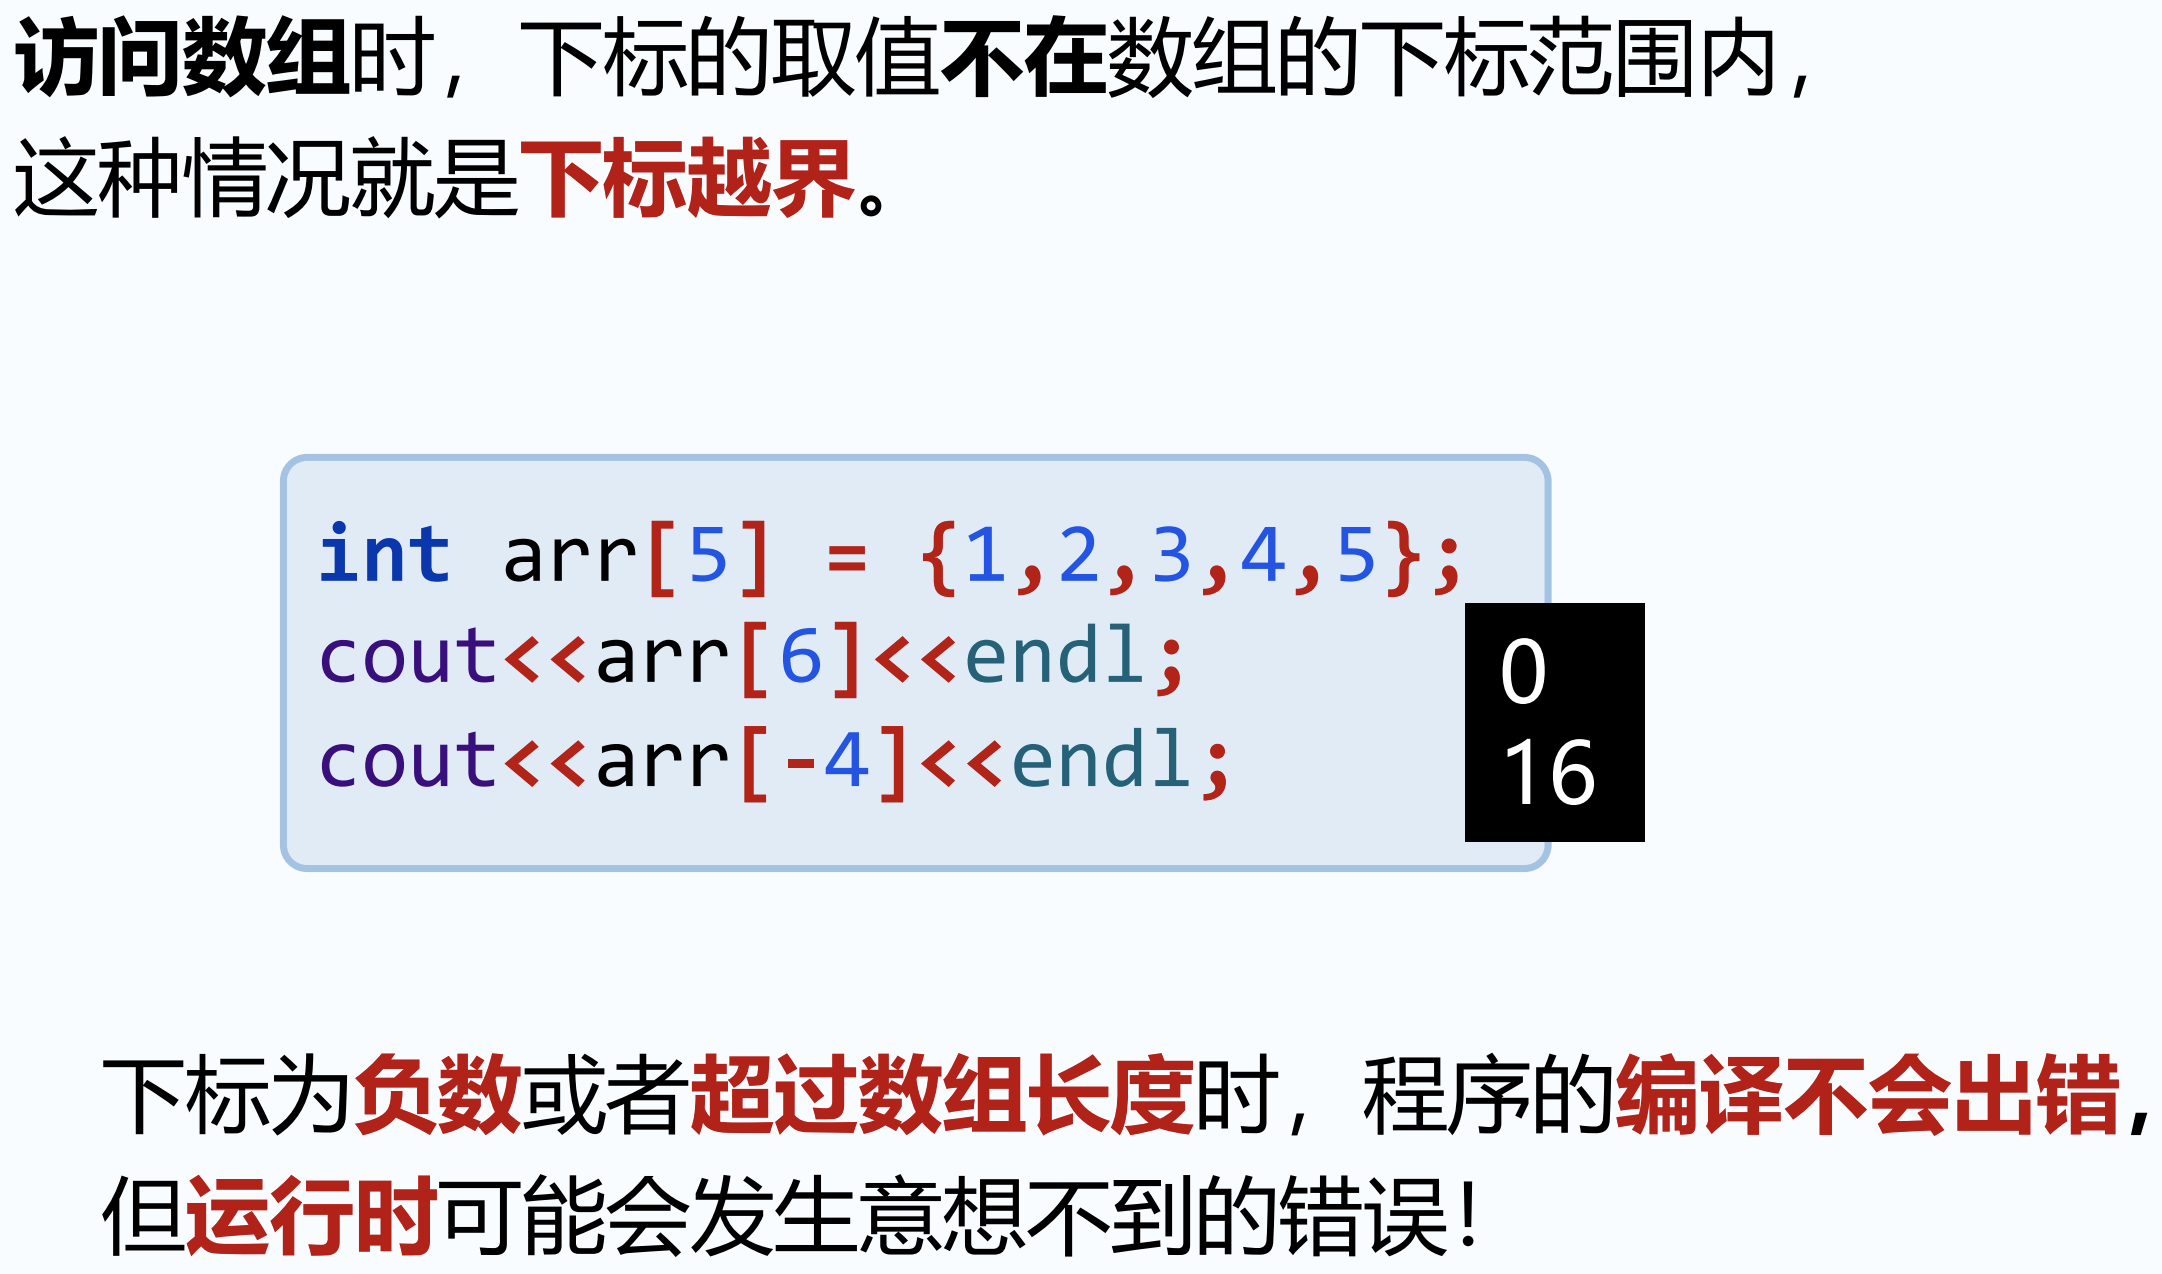
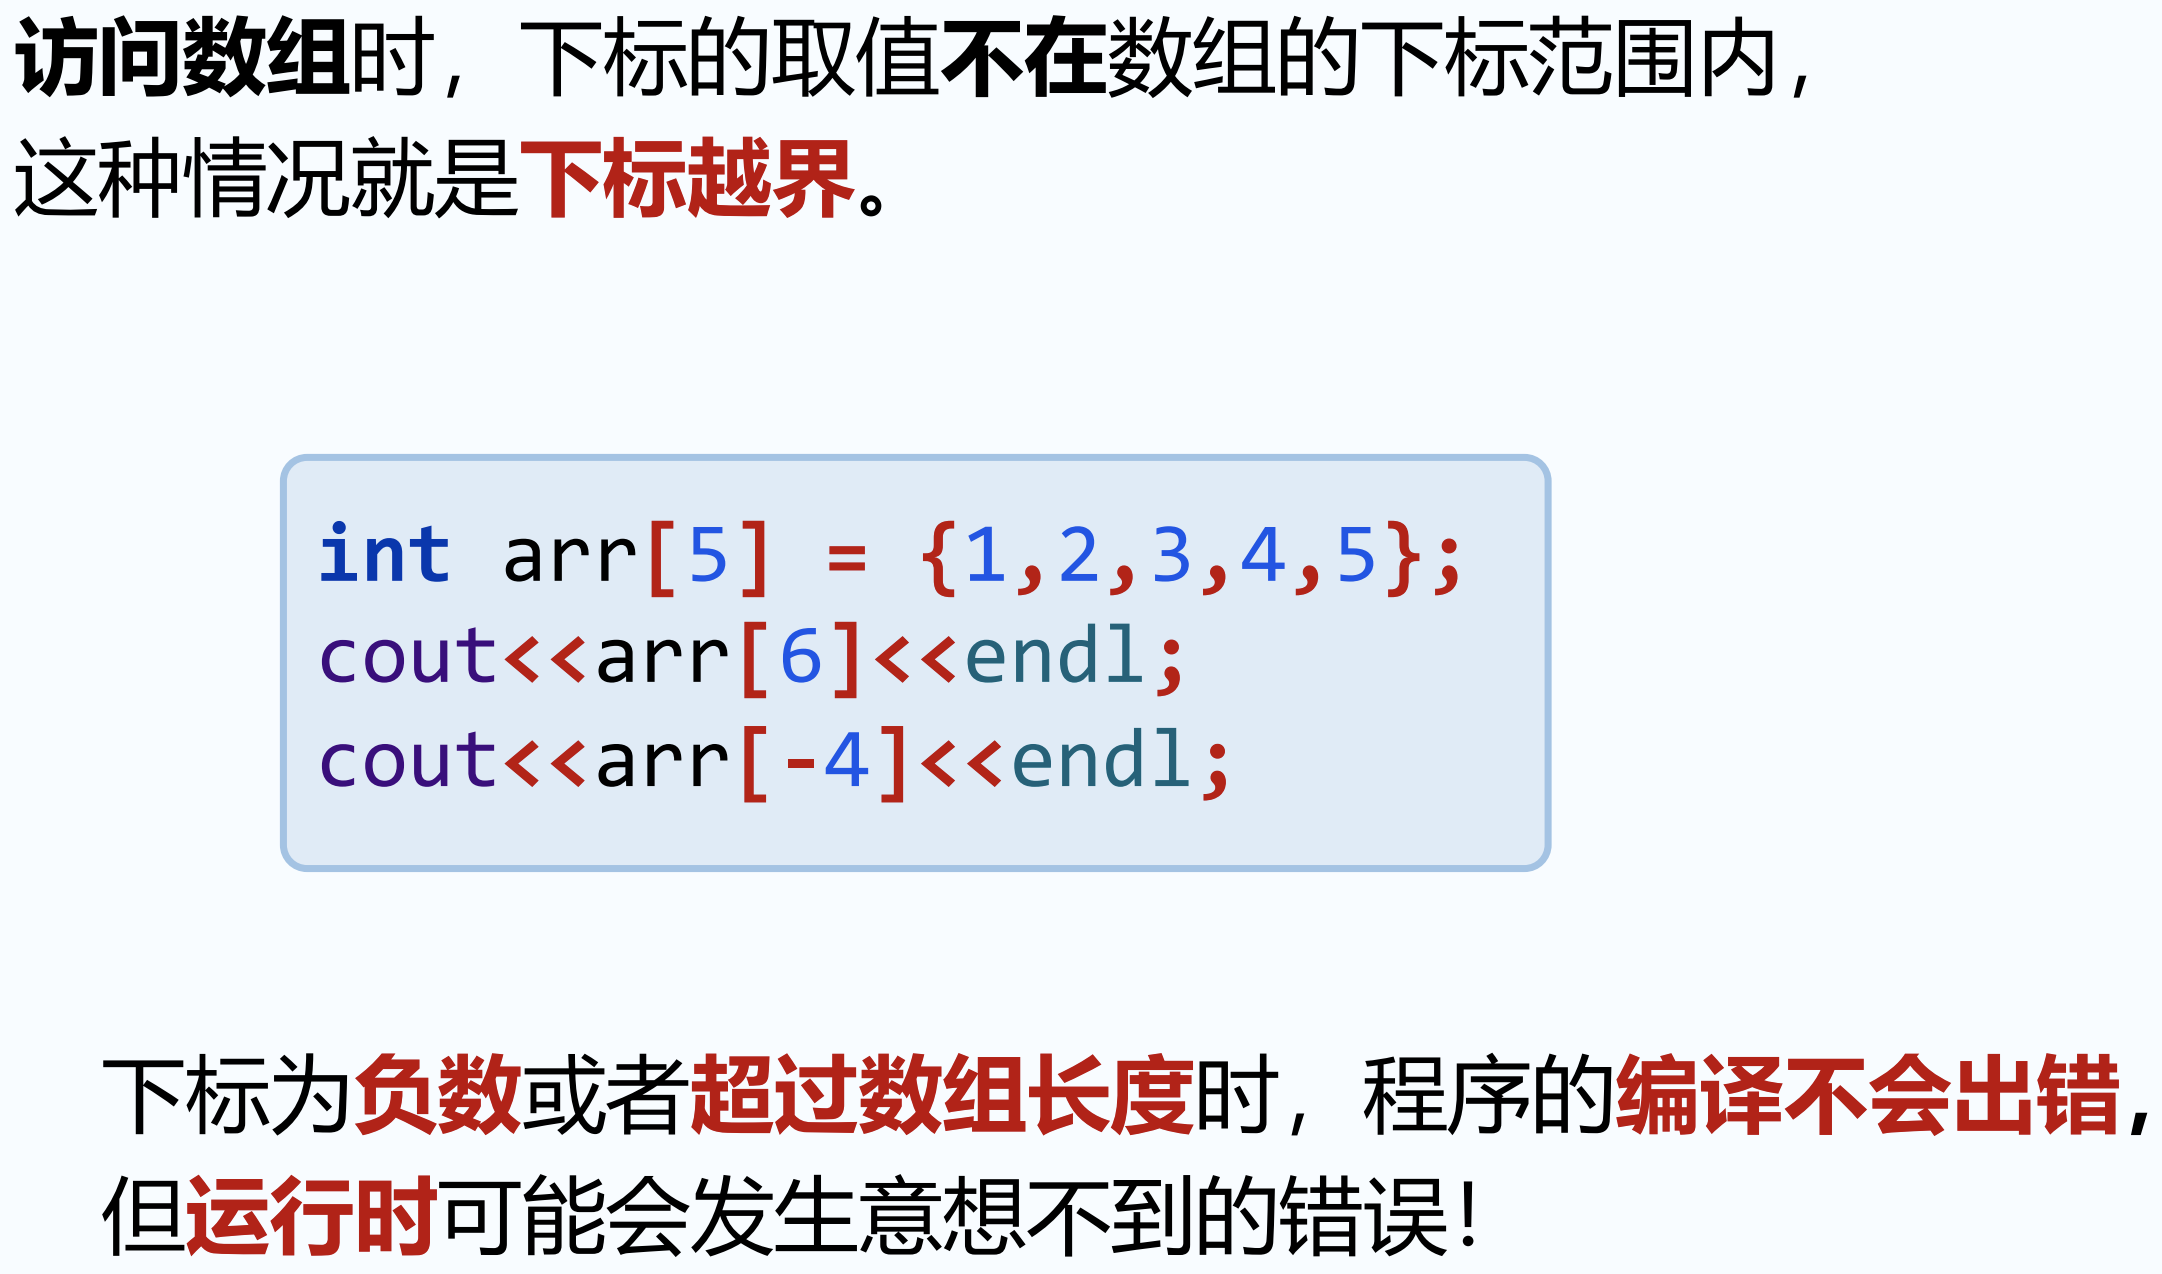
docs(lesson3): 补充C++字符串课程的教学幻灯片与习题解析
本次提交新增了lesson3课程的全部教学演示图片，更新了index.html中的课程页面结构，补充了多个习题的详细解析内容，同时调整了习题配置的计分规则，完善了字符串相关知识点的教学内容。

Changed region(s): [[0.6508, 0.4592, 0.7747, 0.6735]]

diff --git a/data/level3/lesson3/index.html b/data/level3/lesson3/index.html
@@ -1,4 +1,25 @@
 <div class="slide">
+    <h2 class="slide-subtitle-center">字符串</h2>
+    <div class="slide-image-container">
+        <img src="data/level3/lesson3/1-字符串.png" alt="字符串">
+    </div>
+</div>
+
+<div class="slide">
+    <h2 class="slide-subtitle-center">使用字符数组保存字符串</h2>
+    <div class="slide-image-container">
+        <img src="data/level3/lesson3/2-使用字符数组保存字符串.png" alt="使用字符数组保存字符串">
+    </div>
+</div>
+
+<div class="slide">
+    <h2 class="slide-subtitle-center">字符数组初始化方式</h2>
+    <div class="slide-image-container">
+        <img src="data/level3/lesson3/3-字符数组初始化方式 .png" alt="字符数组初始化方式">
+    </div>
+</div>
+
+<div class="slide">
     <div class="quiz-container">
         <div class="quiz-question">（样题）在 C++语言中，字符串是以'\0'结尾的字符数组。</div>
         <div class="quiz-options">
@@ -14,7 +35,7 @@
         <div class="quiz-feedback" id="feedback-0"></div>
         <button class="btn-submit" id="submit-0" onclick="coursePlayer.submitQuiz(0)" disabled>提交答案</button>
         <div class="quiz-analysis" id="analysis-0">
-            【解析】字符串是以'\0'结尾的字符数组。string类是C++标准库提供的字符串处理类，支持各种字符串操作。
+            【解析】在C++中，传统的C风格字符串是以'\0'（空字符）结尾的字符数组。'\0'的ASCII值为0，用于标识字符串的结束位置。
         </div>
     </div>
 </div>
@@ -35,7 +56,7 @@
         <div class="quiz-feedback" id="feedback-1"></div>
         <button class="btn-submit" id="submit-1" onclick="coursePlayer.submitQuiz(1)" disabled>提交答案</button>
         <div class="quiz-analysis" id="analysis-1">
-            【解析】本题考查相关知识点，请结合课堂内容进行分析。
+            【解析】错误。字符数组不一定必须以'\0'结尾。只有当字符数组用于存储字符串时，才需要以'\0'结尾来标识字符串结束。如果只是普通的字符数组，不需要'\0'。
         </div>
     </div>
 </div>
@@ -64,7 +85,7 @@
         <div class="quiz-feedback" id="feedback-2"></div>
         <button class="btn-submit" id="submit-2" onclick="coursePlayer.submitQuiz(2)" disabled>提交答案</button>
         <div class="quiz-analysis" id="analysis-2">
-            【解析】数组定义语法：数据类型 数组名[长度]。长度必须是大于0的整数常量。可以省略长度，但必须提供初始值列表。
+            【解析】选项C正确。A选项中数组长度必须是常量；B选项中"hello"包含6个字符（含'\0'），而数组长度只有5；D选项语法错误，数组名后面必须跟方括号。
         </div>
     </div>
 </div>
@@ -93,7 +114,7 @@
         <div class="quiz-feedback" id="feedback-3"></div>
         <button class="btn-submit" id="submit-3" onclick="coursePlayer.submitQuiz(3)" disabled>提交答案</button>
         <div class="quiz-analysis" id="analysis-3">
-            【解析】字符串是以'\0'结尾的字符数组。string类是C++标准库提供的字符串处理类，支持各种字符串操作。
+            【解析】选项D正确。C++中字符串是以'\0'（空字符，ASCII码为0）作为结束标志的。'\n'是换行符，' '是空格，'0'是字符0，都不是字符串结束标志。
         </div>
     </div>
 </div>
@@ -122,8 +143,15 @@
         <div class="quiz-feedback" id="feedback-4"></div>
         <button class="btn-submit" id="submit-4" onclick="coursePlayer.submitQuiz(4)" disabled>提交答案</button>
         <div class="quiz-analysis" id="analysis-4">
-            【解析】请仔细阅读题目描述，结合所学知识判断正误。注意C++语言的语法规则和特性。
+            【解析】选项B错误。C++中数组的大小必须是编译时常量，不能是变量。选项A正确（部分初始化），选项C正确（省略长度），选项D正确（"hello bit"共9个字符，数组长度10足够）。
         </div>
+    </div>
+</div>
+
+<div class="slide">
+    <h2 class="slide-subtitle-center">输入字符串</h2>
+    <div class="slide-image-container">
+        <img src="data/level3/lesson3/4-输入字符串.png" alt="输入字符串">
     </div>
 </div>
 
@@ -151,8 +179,22 @@
         <div class="quiz-feedback" id="feedback-5"></div>
         <button class="btn-submit" id="submit-5" onclick="coursePlayer.submitQuiz(5)" disabled>提交答案</button>
         <div class="quiz-analysis" id="analysis-5">
-            【解析】字符串是以'\0'结尾的字符数组。string类是C++标准库提供的字符串处理类，支持各种字符串操作。
+            【解析】选项C正确。cin>>遇到空格会停止读取；cin.get()只能读取一个字符；cin.getline()可以读取整行，包括空格。
         </div>
+    </div>
+</div>
+
+<div class="slide">
+    <h2 class="slide-subtitle-center">字符数组的操作函数</h2>
+    <div class="slide-image-container">
+        <img src="data/level3/lesson3/5-字符数组的操作函数.png" alt="字符数组的操作函数">
+    </div>
+</div>
+
+<div class="slide">
+    <h2 class="slide-subtitle-center">遍历字符串</h2>
+    <div class="slide-image-container">
+        <img src="data/level3/lesson3/6-遍历字符串.png" alt="遍历字符串">
     </div>
 </div>
 
@@ -180,7 +222,7 @@
         <div class="quiz-feedback" id="feedback-6"></div>
         <button class="btn-submit" id="submit-6" onclick="coursePlayer.submitQuiz(6)" disabled>提交答案</button>
         <div class="quiz-analysis" id="analysis-6">
-            【解析】字符串是以'\0'结尾的字符数组。string类是C++标准库提供的字符串处理类，支持各种字符串操作。
+            【解析】选项D正确。strlen()是C语言标准库函数，用于获取C风格字符串的长度（不包括'\0'）。length()是string类的成员函数。
         </div>
     </div>
 </div>
@@ -209,7 +251,7 @@
         <div class="quiz-feedback" id="feedback-7"></div>
         <button class="btn-submit" id="submit-7" onclick="coursePlayer.submitQuiz(7)" disabled>提交答案</button>
         <div class="quiz-analysis" id="analysis-7">
-            【解析】数组定义语法：数据类型 数组名[长度]。长度必须是大于0的整数常量。可以省略长度，但必须提供初始值列表。
+            【解析】选项C正确。"Hello"包含5个字母字符和1个'\0'结束符，共6个字符。所以字符数组str的长度为6。
         </div>
     </div>
 </div>
@@ -220,34 +262,60 @@
         <div class="quiz-options">
             <div class="quiz-option" data-quiz-index="8" data-option="0" onclick="coursePlayer.selectQuizOption(this)">
                 <span>A</span>
-                <span>int i = 0; i < strlen(str); i++ using namespace std; int main() {</span>
+                <span>int i = 0; i < strlen(str); i++</span>
             </div>
             <div class="quiz-option" data-quiz-index="8" data-option="1" onclick="coursePlayer.selectQuizOption(this)">
                 <span>B</span>
-                <span>int i = 0; str[i] != '\0'; i++ char str[] = "1234567"; for (_________________) // 在此处填入代码 C. int i = 1; i <= 7; i += 2 cout << str[i];</span>
+                <span>int i = 0; str[i] != '\0'; i++</span>
             </div>
             <div class="quiz-option" data-quiz-index="8" data-option="2" onclick="coursePlayer.selectQuizOption(this)">
+                <span>C</span>
+                <span>int i = 1; i <= 7; i += 2</span>
+            </div>
+            <div class="quiz-option" data-quiz-index="8" data-option="3" onclick="coursePlayer.selectQuizOption(this)">
                 <span>D</span>
-                <span>int i = 0; i <= 6; i += 2 return 0; }</span>
+                <span>int i = 0; i <= 6; i += 2</span>
             </div>
         </div>
         <div class="quiz-feedback" id="feedback-8"></div>
         <button class="btn-submit" id="submit-8" onclick="coursePlayer.submitQuiz(8)" disabled>提交答案</button>
         <div class="quiz-analysis" id="analysis-8">
-            【解析】本题考查相关知识点，请结合课堂内容进行分析。
+            【解析】选项D正确。字符串"1234567"的索引为0-6，要输出奇数位字符（1,3,5,7），需要访问索引0,2,4,6，即从0开始，步长为2，条件i<=6。
         </div>
     </div>
 </div>
 
 <div class="slide">
+    <h2 class="slide-subtitle-center">strupr()</h2>
+    <div class="slide-image-container">
+        <img src="data/level3/lesson3/7-strupr() .png" alt="strupr()">
+    </div>
+</div>
+
+<div class="slide">
+    <h2 class="slide-subtitle-center">strlwr()</h2>
+    <div class="slide-image-container">
+        <img src="data/level3/lesson3/8-strlwr().png" alt="strlwr()">
+    </div>
+</div>
+
+<div class="slide">
     <div class="quiz-container">
-        <div class="quiz-question">课堂练习 下面代码的结果是（ ） #include <stdio.h> #include <string.h> int main(){ A. 3 char arr[] = {'b', 'i', 't'};</div>
+        <div class="quiz-question">课堂练习 下面代码的结果是（ ） #include <stdio.h> #include <string.h> int main(){ char arr[] = {'b', 'i', 't'}; printf("%d\n", strlen(arr)); return 0; }</div>
         <div class="quiz-options">
             <div class="quiz-option" data-quiz-index="9" data-option="0" onclick="coursePlayer.selectQuizOption(this)">
-                <span>B</span>
-                <span>4 printf("%d\n", strlen(arr)); return 0; C. 随机值 }</span>
+                <span>A</span>
+                <span>3</span>
             </div>
             <div class="quiz-option" data-quiz-index="9" data-option="1" onclick="coursePlayer.selectQuizOption(this)">
+                <span>B</span>
+                <span>4</span>
+            </div>
+            <div class="quiz-option" data-quiz-index="9" data-option="2" onclick="coursePlayer.selectQuizOption(this)">
+                <span>C</span>
+                <span>随机值</span>
+            </div>
+            <div class="quiz-option" data-quiz-index="9" data-option="3" onclick="coursePlayer.selectQuizOption(this)">
                 <span>D</span>
                 <span>5</span>
             </div>
@@ -255,7 +323,7 @@
         <div class="quiz-feedback" id="feedback-9"></div>
         <button class="btn-submit" id="submit-9" onclick="coursePlayer.submitQuiz(9)" disabled>提交答案</button>
         <div class="quiz-analysis" id="analysis-9">
-            【解析】int表示整型，double表示双精度浮点型，float表示单精度浮点型。数组元素类型必须一致。
+            【解析】选项C正确。strlen()函数从数组起始位置开始计数，直到遇到'\0'为止。由于arr数组没有'\0'结尾，strlen()会继续向后查找，直到找到内存中的'\0'，结果是随机值。
         </div>
     </div>
 </div>
@@ -284,7 +352,98 @@
         <div class="quiz-feedback" id="feedback-10"></div>
         <button class="btn-submit" id="submit-10" onclick="coursePlayer.submitQuiz(10)" disabled>提交答案</button>
         <div class="quiz-analysis" id="analysis-10">
-            【解析】请仔细阅读题目描述，结合所学知识判断正误。注意C++语言的语法规则和特性。
+            【解析】选项D错误。数组名是常量指针，不能直接用赋值运算符赋值。要复制字符串应该使用strcpy()函数。
         </div>
+    </div>
+</div>
+
+<div class="slide">
+    <h2 class="slide-subtitle-center">密码合规检测</h2>
+    <div class="slide-image-container">
+        <img src="data/level3/lesson3/9-(2023年6月)密码合规检测.png" alt="密码合规检测">
+    </div>
+</div>
+
+<div class="slide">
+    <h2 class="slide-subtitle-center">密码合规检测</h2>
+    <div class="slide-image-container">
+        <img src="data/level3/lesson3/10-(2023年6月)密码合规检测.png" alt="密码合规检测">
+    </div>
+</div>
+
+<div class="slide">
+    <h2 class="slide-subtitle-center">密码合规检测</h2>
+    <div class="slide-image-container">
+        <img src="data/level3/lesson3/11-(2023年6月)密码合规检测.png" alt="密码合规检测">
+    </div>
+</div>
+
+<div class="slide">
+    <h2 class="slide-subtitle-center">思路分析</h2>
+    <div class="slide-image-container">
+        <img src="data/level3/lesson3/12-思路分析.png" alt="思路分析">
+    </div>
+</div>
+
+<div class="slide">
+    <h2 class="slide-subtitle-center">根据输入的长串截取子串</h2>
+    <div class="slide-image-container">
+        <img src="data/level3/lesson3/13-根据输入的长串截取子串.png" alt="根据输入的长串截取子串">
+    </div>
+</div>
+
+<div class="slide">
+    <h2 class="slide-subtitle-center">根据输入的长串截取子串</h2>
+    <div class="slide-image-container">
+        <img src="data/level3/lesson3/14-根据输入的长串截取子串.png" alt="根据输入的长串截取子串">
+    </div>
+</div>
+
+<div class="slide">
+    <h2 class="slide-subtitle-center">根据输入的长串截取子串</h2>
+    <div class="slide-image-container">
+        <img src="data/level3/lesson3/15-根据输入的长串截取子串.png" alt="根据输入的长串截取子串">
+    </div>
+</div>
+
+<div class="slide">
+    <h2 class="slide-subtitle-center">定义判断是否合法函数check</h2>
+    <div class="slide-image-container">
+        <img src="data/level3/lesson3/16-定义判断是否合法函数check.png" alt="定义判断是否合法函数check">
+    </div>
+</div>
+
+<div class="slide">
+    <h2 class="slide-subtitle-center">定义判断是否合法函数check</h2>
+    <div class="slide-image-container">
+        <img src="data/level3/lesson3/17-定义判断是否合法函数check.png" alt="定义判断是否合法函数check">
+    </div>
+</div>
+
+<div class="slide">
+    <h2 class="slide-subtitle-center">定义判断是否合法函数check</h2>
+    <div class="slide-image-container">
+        <img src="data/level3/lesson3/18-定义判断是否合法函数check.png" alt="定义判断是否合法函数check">
+    </div>
+</div>
+
+<div class="slide">
+    <h2 class="slide-subtitle-center">根据输入的长串截取子串</h2>
+    <div class="slide-image-container">
+        <img src="data/level3/lesson3/19-根据输入的长串截取子串.png" alt="根据输入的长串截取子串">
+    </div>
+</div>
+
+<div class="slide">
+    <h2 class="slide-subtitle-center">完整代码</h2>
+    <div class="slide-image-container">
+        <img src="data/level3/lesson3/20-完整代码.png" alt="完整代码">
+    </div>
+</div>
+
+<div class="slide">
+    <h2 class="slide-subtitle-center">完整代码</h2>
+    <div class="slide-image-container">
+        <img src="data/level3/lesson3/21-完整代码.png" alt="完整代码">
     </div>
 </div>

diff --git a/data/level3/lesson3/lesson.js b/data/level3/lesson3/lesson.js
@@ -9,8 +9,8 @@ window.lessonData = {
         5: 2,
         6: 3,
         7: 2,
-        8: 2,
-        9: 0,
+        8: 3,
+        9: 2,
         10: 3
     }
 };